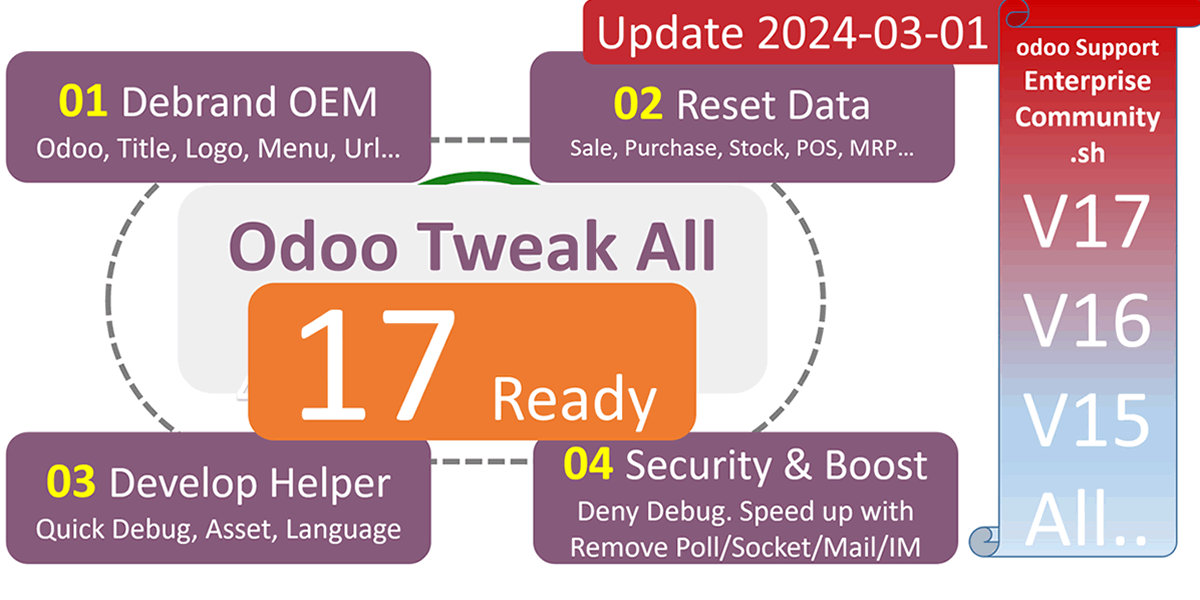
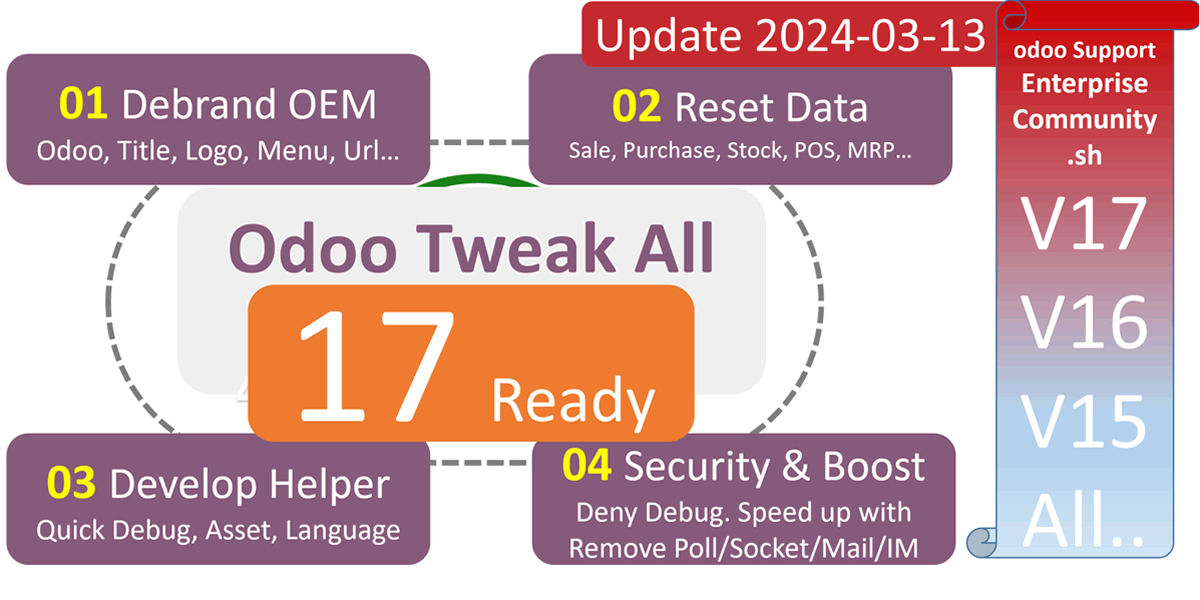
update customize

diff --git a/app_odoo_customize/static/description/index.html b/app_odoo_customize/static/description/index.html
@@ -20,7 +20,7 @@
 <section class="container app">
     <div class="oe_row oe_spaced" style="max-width: 95%;">
         <div class="row">
-            <h2 class="oe_slogan">This is a Long Term Support Apps.Update: v17.24.03.11</h2>
+            <h2 class="oe_slogan">This is a Long Term Support Apps.Update: v17.24.03.13</h2>
             <div class="oe_demo" style=" margin: 30px auto 0; padding: 0 15px 0 0; border:none; width: 96%;">
                 <ul class="list-group">
                     <li class="list-group-item">1. Deletes Odoo label in footer</li>
@@ -68,6 +68,8 @@
                     <li class="list-group-item">44. Check to stop subscribe and follow. This to make odoo speed up.</li>
                     <li class="list-group-item">45. Add addons path info to module.</li>
                     <li class="list-group-item">46. Add Help documentation anywhere.  easy get help for any odoo operation or action.</li>
+                    <li class="list-group-item">47. Add ai robot app integration. Use Ai as your employee.</li>
+                    <li class="list-group-item">48. Add menu debug information of action and xml id.</li>
 
                 </ul>
             <div class="oe_demo" style=" margin: 30px auto 0; padding: 0 15px 0 0; border:none; width: 96%;">
@@ -299,6 +301,10 @@
         <div class="row">
             <h2 class="oe_slogan">This is a Long Term Support Apps.</h2>
             <div class="oe_demo" style=" margin: 30px auto 0; padding: 0 15px 0 0; border:none; width: 96%;">
+                <h3>Update: v17.24.03.13</h3>
+                <p>Fix security bug and add debug menu function.</p>
+                <p>47. Add ai robot app integration. Use Ai as your employee.</p>
+                <p>48. Add menu debug information of action and xml id.</p>
                 <h3>Update: v17.24.03.01</h3>
                 <p>Add more function for odoo 17.Dialog, language switcher.</p>
                 <h3>Update: v17.24.02.26</h3>

diff --git a/app_odoo_customize/__manifest__.py b/app_odoo_customize/__manifest__.py
@@ -23,7 +23,7 @@
 
 {
     'name': 'odoo17 Tweak,Ai Employee,Boost,Customize All in One. Customize,UI,Boost,Security,Data,Development Enhance',
-    'version': '24.03.12',
+    'version': '24.03.13',
     'author': 'odooai.cn',
     'category': 'Extra Tools',
     'website': 'https://www.odooai.cn',
@@ -137,6 +137,7 @@
     45. Add addons path info to module.
     46. Add Help documentation anywhere.  easy get help for any odoo operation or action.
     47. Add ai robot app integration. Use Ai as your employee.
+    48. Add menu debug information of action and xml id.
 
     This module can help to white label the Odoo.
     Also helpful for training and support for your odoo end-user.
@@ -190,5 +191,7 @@
     44. 可配置停用自动用户订阅功能，这会提速odoo，减少资源消耗
     45. 为应用模块增加模块路径信息
     46. 增加快速帮助文档，可以在任意操作中获取相关的 odoo 帮助.
+    47. 增加 Ai 如 ChatGpt 或百度ai的快速安装选项.
+    48. 增加菜单Debug功能.
     """,
 }
